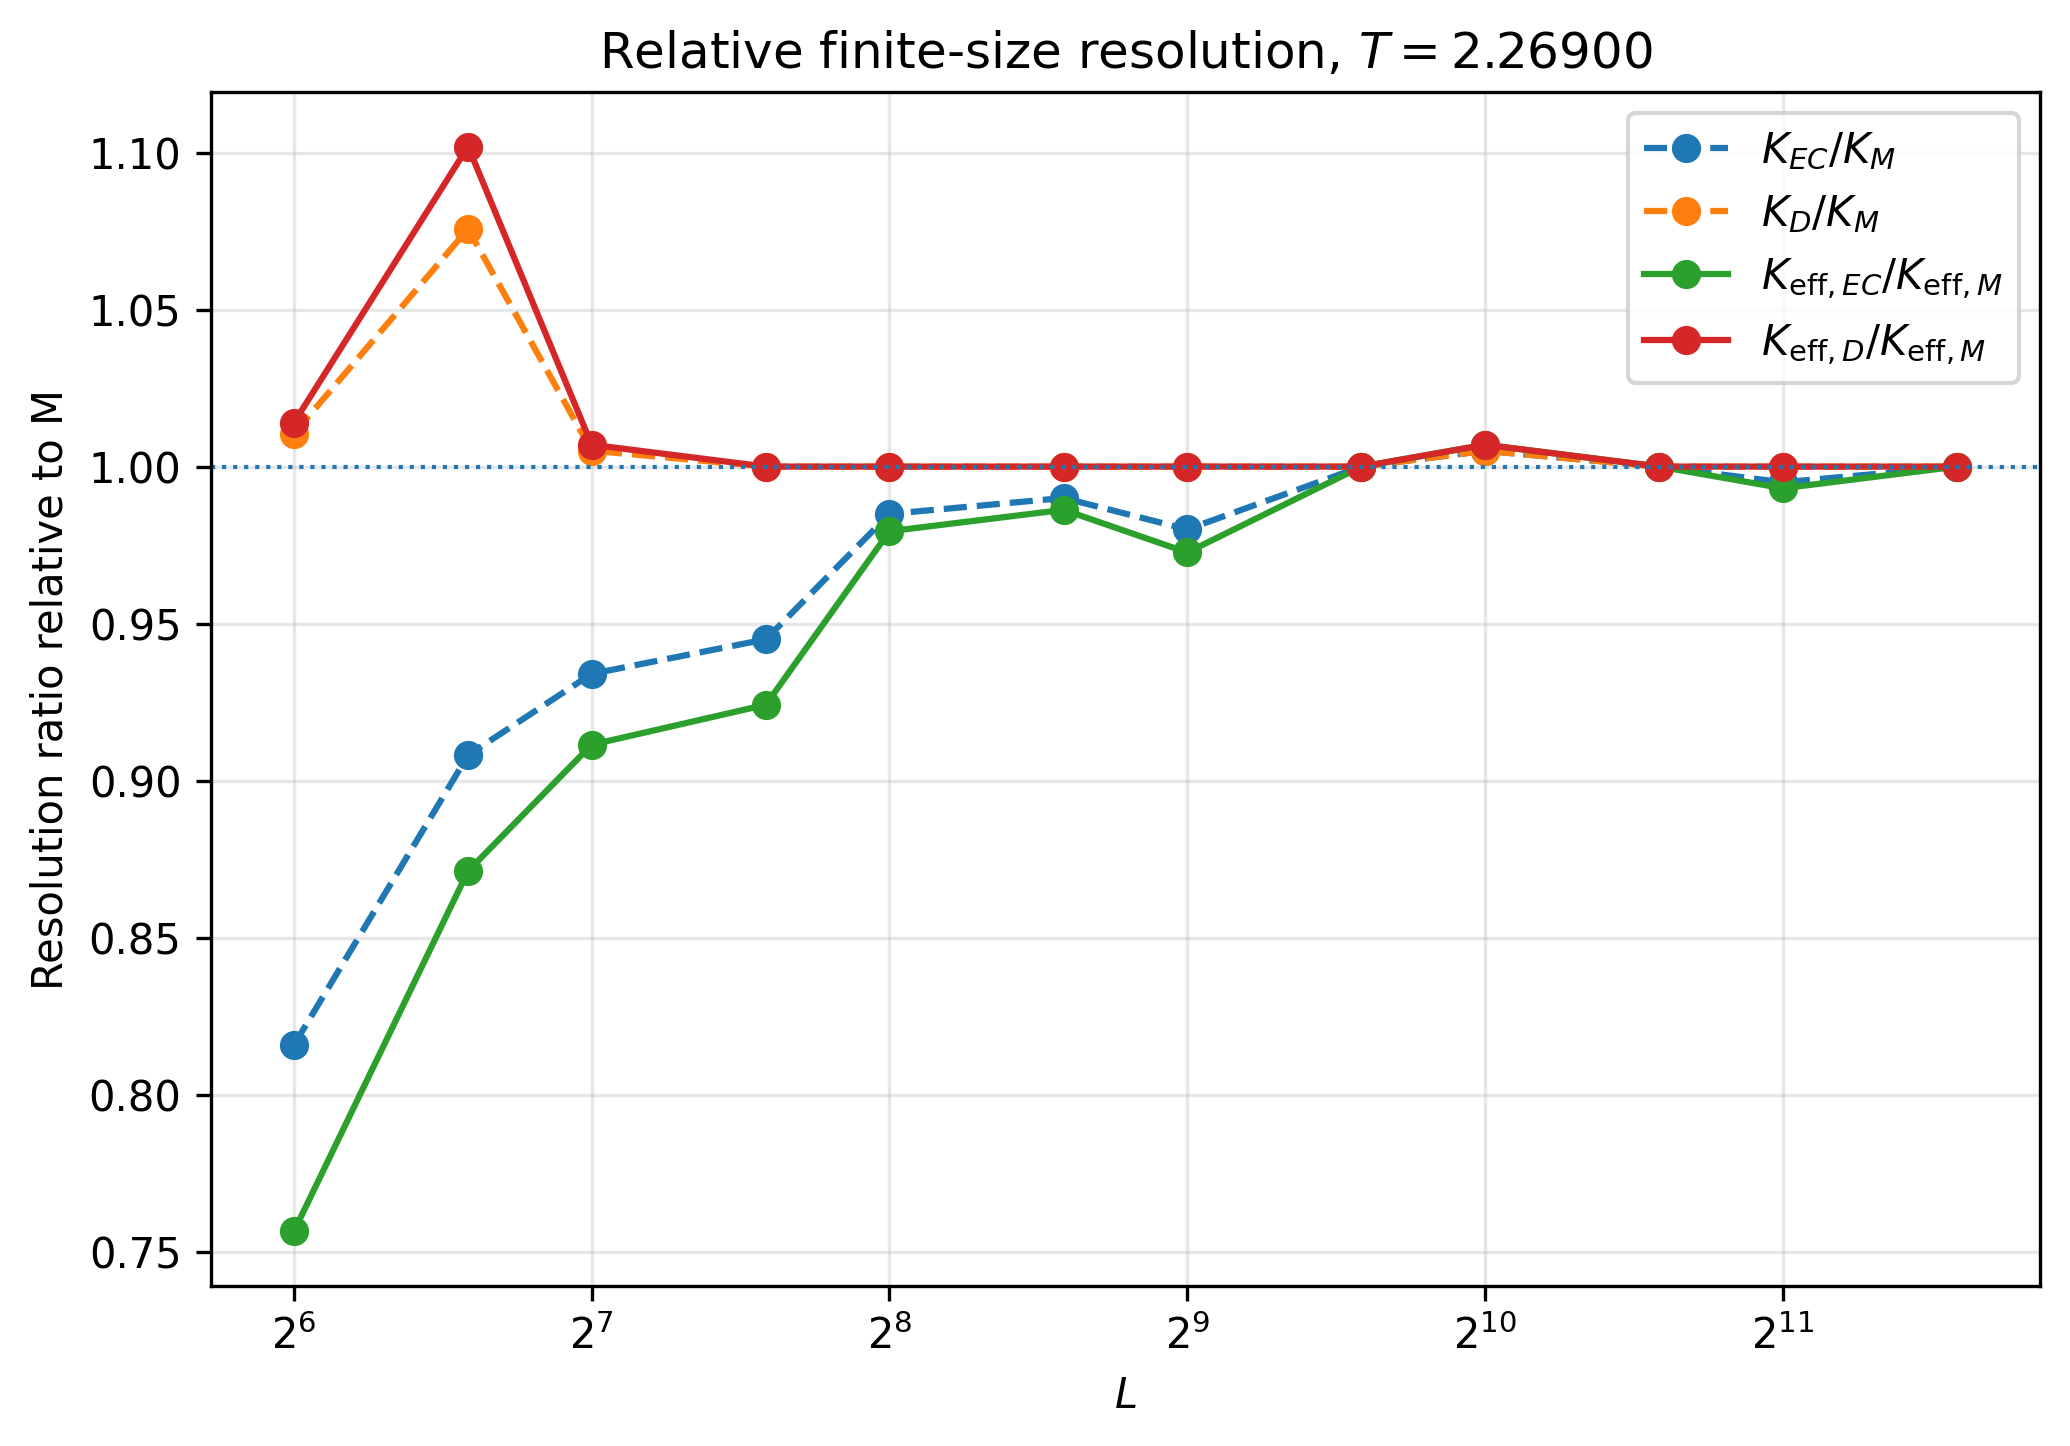
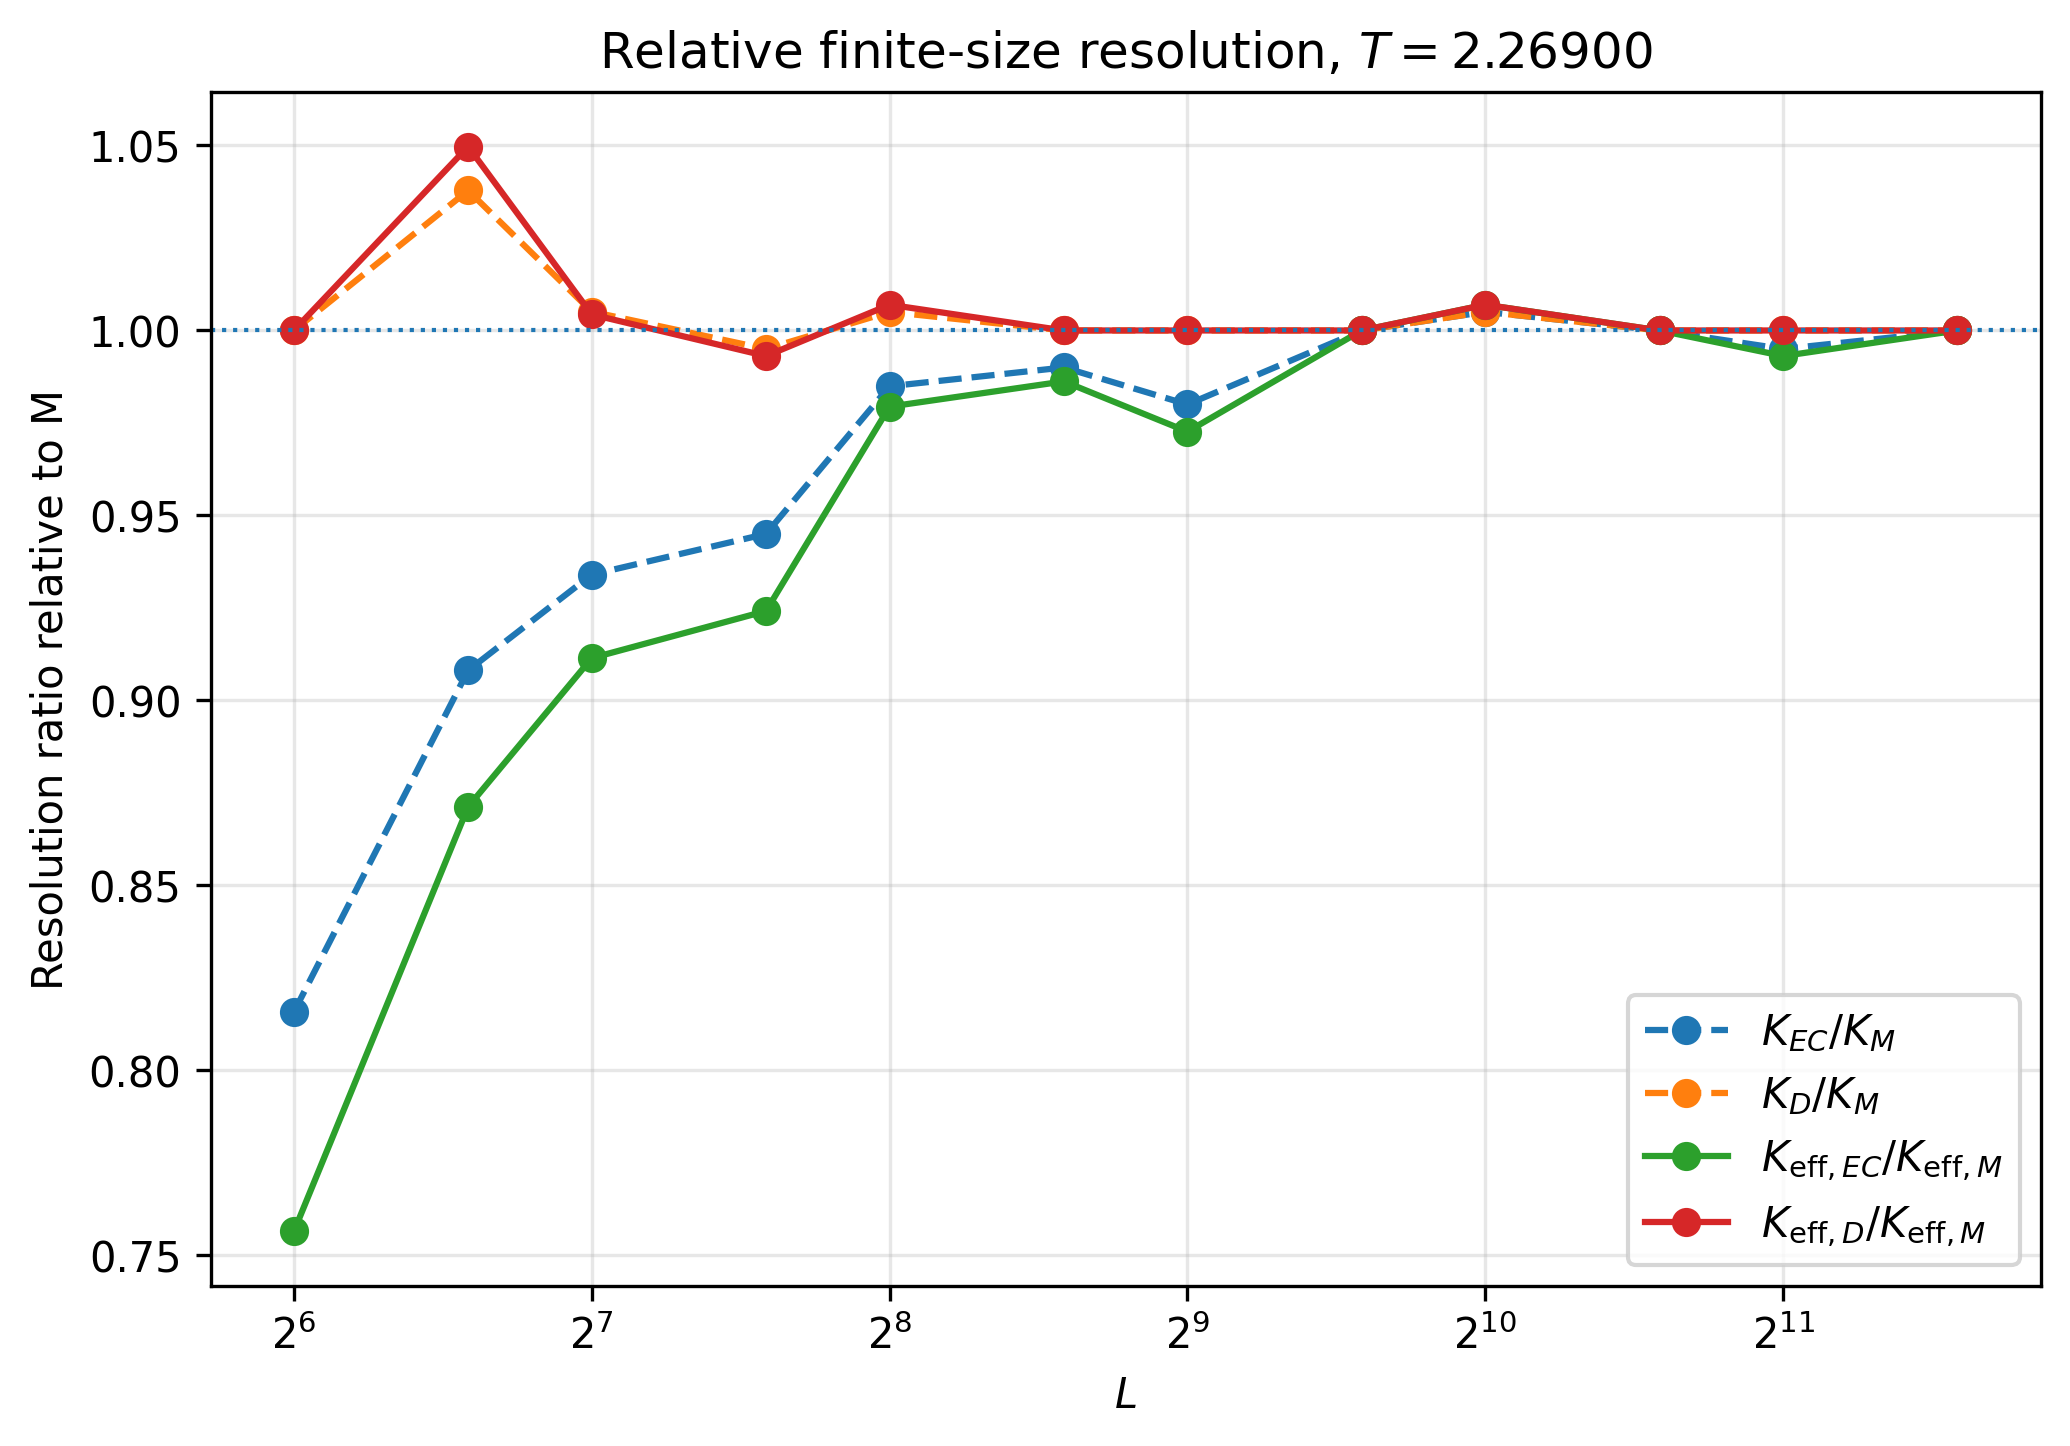
Update reproducibility workflows and fix lattice-dependent observables

diff --git a/src/multihistogram/main.cpp b/src/multihistogram/main.cpp
@@ -114,10 +114,10 @@ struct Series {
 
 int main(int argc, char** argv) {
     try {
-        if (argc != 9 && argc != 10) {
+        if (argc != 11) {
             cerr << "Usage: " << argv[0]
                  << " temperatures_file L dimension results_file T_min T_max n_points"
-                    " output_file [input_data_dir]\n";
+                    " output_file input_data_dir lattice_type\n";
             return 1;
         }
         const int L = stoi(argv[2]);
@@ -133,7 +133,13 @@ int main(int argc, char** argv) {
             !(Tmin > 0.0 && Tmax > Tmin))
             throw runtime_error("Require L>0, dimension=2, n_points>=2, 0<T_min<T_max");
         const double vol = pow(static_cast<double>(L), dim);
-        const string base = argc == 10 ? argv[9] : "data/eul2d";
+        const string base = argv[9];
+        const string lattice_type = argv[10];
+        
+        if (lattice_type != "square" && lattice_type != "triangular")
+            throw runtime_error("lattice_type must be square or triangular");
+
+        const double d_factor = (lattice_type == "square") ? 2.0 : 1.0;
         ifstream input(argv[1]);
         if (!input) throw runtime_error(string("Cannot open temperatures file: ") + argv[1]);
         ofstream outf(argv[4]), outf0(argv[8]);
@@ -157,10 +163,11 @@ int main(int argc, char** argv) {
             double M, E, chip, chin, f0p, f1p, f2p, f0n, f1n, f2n;
             while (in >> M >> E >> chip >> chin >> f0p >> f1p >> f2p
                       >> f0n >> f1n >> f2n) {
-                // ec_sym = (chi_plus - chi_minus)/2 and d = M + 2*ec_sym.
-                // Store absolute observables per lattice site.
-                const double q = (chip - chin) / 2.0;
-                const double d = M + 2.0*q;
+                      // ec_sym = (chi_plus - chi_minus) / 2.
+                      // d = M + 2*ec_sym (square) or M + ec_sym (triangular).
+                      // Store absolute observables per lattice site.
+                      const double q = (chip - chin) / 2.0;
+                      const double d = M + d_factor * q;
                 s.E.push_back(E);
                 s.ec.push_back(abs(q) / vol);
                 s.mag.push_back(abs(M) / vol);

diff --git a/scripts/analysis/compute_distribution_resolution.py b/scripts/analysis/compute_distribution_resolution.py
@@ -47,7 +47,7 @@ def load_observables(
             f"No samples found in {size_dir}"
         )
 
-    EC_sym = (EN - EP) / 2.0
+    EC_sym = (EP - EN) / 2.0
 
     if lattice_type == "square":
         # M = -2 EC_sym + D

diff --git a/docs/multihistogram_workflow.md b/docs/multihistogram_workflow.md
@@ -2,7 +2,7 @@
 
 ## Overview
 
-This document describes how to prepare simulation measurements and run multihistogram reweighting for the two-dimensional Ising model. The workflow supports square and triangular lattices, each with `cell` and `vertex` representations. The combinations analyzed in the associated publication are:
+This document describes how to prepare simulation measurements and run multihistogram reweighting for the two-dimensional Ising model. The workflow supports square and triangular lattices, each with `cell` and `vertex` representations. The lattice/representation combinations analyzed in the associated publication are:
 
 - `square/cell`
 - `triangular/vertex`
@@ -187,7 +187,13 @@ bash scripts/multihistogram/run_multihistogram_all.sh \
     triangular vertex src/multihistogram
 ```
 
-The runner determines input and output locations from the lattice and representation:
+The runner determines input and output locations from the lattice and representation. It also passes `lattice_type` (`square` or `triangular`) to the `Rw` executable as its final command-line argument:
+
+```text
+Rw temperatures_file L dimension results_file T_min T_max n_points output_file input_data_dir lattice_type
+```
+
+Both `input_data_dir` and `lattice_type` are required by the updated executable. The runner supplies these arguments automatically; users invoking `Rw` directly must supply them explicitly.
 
 ```text
 Temperature files:
@@ -267,17 +273,18 @@ bash scripts/multihistogram/run_multihistogram_all.sh \
 
 The bootstrap seed is separate from the seed file used by the Monte Carlo simulation programs. The `AutoCorr` estimates are expressed in intervals between **saved measurements**, not individual Metropolis or Wolff updates. The bootstrap executable does not enforce a minimum number of nonoverlapping blocks; separate diagnostic scripts can assess the feasibility and sensitivity of block-size choices.
 
-### Current implementation note concerning `d`
+### Lattice-dependent definition of `d`
 
-In the present `src/multihistogram/main.cpp`, the executable calculates:
+The current shared executable takes `lattice_type` as a required command-line argument and uses
 
 ```text
 EC_sym = (chi_plus - chi_minus) / 2
 
-d = M + 2 * EC_sym
+d = M + 2 * EC_sym    (square)
+d = M + EC_sym        (triangular)
 ```
 
-This expression is applied for both lattice types by the current executable. Some diagnostic scripts instead use `d = M + EC_sym` for the triangular lattice. **This discrepancy must be checked against the intended observable definition before treating those analyses as equivalent.** This document describes the executable as currently implemented; it does not resolve that scientific consistency question.
+In `main.cpp`, the coefficient is selected from the supplied lattice type before the input measurements are processed. The observable passed to reweighting is `|d| / L^2`. This agrees with the lattice-dependent formula used in the autocorrelation and cross-stream diagnostic scripts. The symmetrized Euler characteristic and magnetization observables are treated in the same way for both lattice types.
 
 ## 4. Output files and post-processing
 

diff --git a/docs/analysis_workflow.md b/docs/analysis_workflow.md
@@ -70,7 +70,7 @@ It calculates the temperature dependence of:
 - Mean absolute symmetrized Euler characteristic, `<|EC_sym|>`.
 - Mean averaged Euler characteristic, `<EC_avg>`.
 
-Here `EC_sym = (EC_minus - EC_plus)/2` and `EC_avg = (EC_minus + EC_plus)/2`. The sign convention for `EC_sym` does not affect its absolute value.
+Here `EC_sym = (EC_plus - EC_minus)/2` and `EC_avg = (EC_plus + EC_minus)/2`. The sign convention for `EC_sym` does not affect its absolute value.
 
 ### Statistical uncertainties
 
@@ -274,7 +274,7 @@ The subleading correction fit is not part of the triangular-lattice workflow use
 For a selected **measured** temperature, the script reads aligned raw measurements of `M`, `EC_plus`, and `EC_minus` from `mefile.txt`, `epfile.txt`, and `enfile.txt`, respectively. It constructs
 
 $$
-EC_{\mathrm{sym}} = \frac{EC_{\mathrm{minus}} - EC_{\mathrm{plus}}}{2},
+EC_{\mathrm{sym}} = \frac{EC_{\mathrm{plus}} - EC_{\mathrm{minus}}}{2},
 $$
 
 and
@@ -405,7 +405,7 @@ This script estimates integrated autocorrelation times for seven recorded series
 - Absolute domain-imbalance observable `D` per spin.
 - The squares of the normalized magnetization, symmetrized Euler characteristic, and `D`.
 
-The signed observable used to construct `D` is `D = M + 2 EC_sym` on the square lattice and `D = M + EC_sym` on the triangular lattice, with `EC_sym = (EC_plus - EC_minus)/2` in these diagnostic scripts. The sign convention for `EC_sym` is relevant when combining it with `M`.
+The signed observable used to construct `D` is `D = M + 2 EC_sym` on the square lattice and `D = M + EC_sym` on the triangular lattice, with `EC_sym = (EC_plus - EC_minus)/2`, consistently with the definition used throughout this document.
 
 The script compiles a temporary C++ driver using the repository's original `src/multihistogram/Autocorr.cpp` and `Autocorr.h`. It analyzes each temperature, size, and run separately; recorded time series are not concatenated.
 
